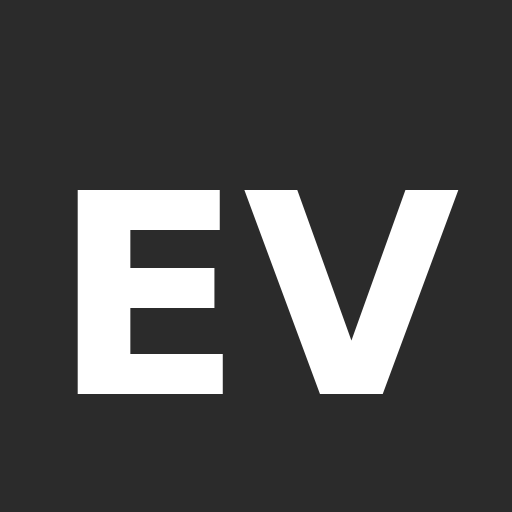
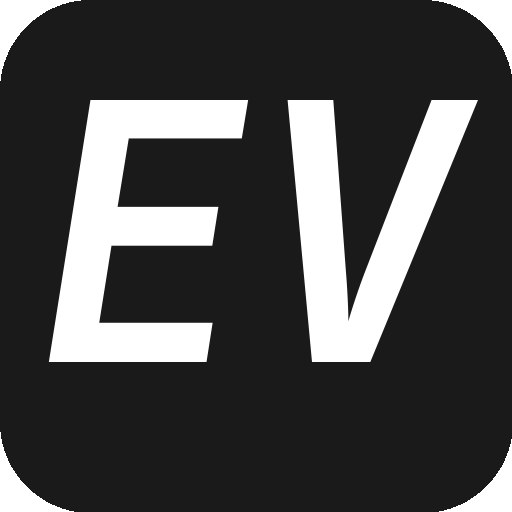
Site update: Sat 31 Jan 19:16:24 EET 2026

diff --git a/public/publication/vlachos-enabling-2026/index.html b/public/publication/vlachos-enabling-2026/index.html
@@ -286,8 +286,8 @@
 
 
 
-<link rel="icon" type="image/png" href="/media/icon_hu_99960cbade89db17.png" />
-<link rel="apple-touch-icon" type="image/png" href="/media/icon_hu_b9ce45dcf87a2611.png" />
+<link rel="icon" type="image/png" href="/media/icon_hu_bcf1dc3a34bdcf82.png" />
+<link rel="apple-touch-icon" type="image/png" href="/media/icon_hu_5c6510fda0db55d7.png" />
 
 <meta name="theme-color" content="#bbdefb" />
 
@@ -309,7 +309,7 @@
 
 
 <meta property="twitter:card" content="summary" />
-<meta property="twitter:image" content="http://localhost:1313/media/icon_hu_54fb21ec9e5f7394.png" />
+<meta property="twitter:image" content="http://localhost:1313/media/icon_hu_2beab1606e98fa9.png" />
 
 
 
@@ -319,7 +319,7 @@
 <meta property="og:site_name" content="Dr. Evangelos Vlachos" />
 <meta property="og:url" content="http://localhost:1313/publication/vlachos-enabling-2026/" />
 <meta property="og:title" content="Enabling Safe and Scalable UAV Swarms: ISAC Technology, GNSS Resilience, and Risk Modeling in U-space | Dr. Evangelos Vlachos" />
-<meta property="og:description" content="This letter investigates the coupled control problem in UA V networks utilizing high-frequency hybrid beamsteering. While phased arrays enable rapid electronic scanning, their finite Field of View (FoV) imposes a fundamental constraint that necessitates active mechanical steering of the airframe to maintain connectivity. We propose a decentralized Model Predic- tive Control (MPC) framework that jointly optimizes trajectory and heading to maximize network sum-capacity subject to safety constraints. Addressing the numerical instability caused by fast- fading channel nulls, we introduce a regularized surrogate cost function based on discrete spatial smoothing. We analytically prove that this approximation bounds the cost curvature, restor- ing the Lipschitz continuity of the gradient. Crucially, we derive a sufficient condition linking this Lipschitz constant to the con- troller gain, guaranteeing the contraction and linear convergence of the distributed best-response dynamics. Simulation results demonstrate that the proposed algorithm effectively navigates the trade-off between electronic beam tracking and kinematic safety, significantly systematically outperforming velocity-aligned baselines." /><meta property="og:image" content="http://localhost:1313/media/icon_hu_54fb21ec9e5f7394.png" /><meta property="og:locale" content="en-us" />
+<meta property="og:description" content="This letter investigates the coupled control problem in UA V networks utilizing high-frequency hybrid beamsteering. While phased arrays enable rapid electronic scanning, their finite Field of View (FoV) imposes a fundamental constraint that necessitates active mechanical steering of the airframe to maintain connectivity. We propose a decentralized Model Predic- tive Control (MPC) framework that jointly optimizes trajectory and heading to maximize network sum-capacity subject to safety constraints. Addressing the numerical instability caused by fast- fading channel nulls, we introduce a regularized surrogate cost function based on discrete spatial smoothing. We analytically prove that this approximation bounds the cost curvature, restor- ing the Lipschitz continuity of the gradient. Crucially, we derive a sufficient condition linking this Lipschitz constant to the con- troller gain, guaranteeing the contraction and linear convergence of the distributed best-response dynamics. Simulation results demonstrate that the proposed algorithm effectively navigates the trade-off between electronic beam tracking and kinematic safety, significantly systematically outperforming velocity-aligned baselines." /><meta property="og:image" content="http://localhost:1313/media/icon_hu_2beab1606e98fa9.png" /><meta property="og:locale" content="en-us" />
 
   
     <meta
@@ -369,7 +369,7 @@
     "name": "Dr. Evangelos Vlachos",
     "logo": {
       "@type": "ImageObject",
-      "url": "http://localhost:1313/media/icon_hu_d6fc2599f8aa940b.png"
+      "url": "http://localhost:1313/media/icon_hu_7f8914d350a21857.png"
     }
   },
   "description": "This letter investigates the coupled control problem in UA V networks utilizing high-frequency hybrid beamsteering. While phased arrays enable rapid electronic scanning, their finite Field of View (FoV) imposes a fundamental constraint that necessitates active mechanical steering of the airframe to maintain connectivity. We propose a decentralized Model Predic- tive Control (MPC) framework that jointly optimizes trajectory and heading to maximize network sum-capacity subject to safety constraints. Addressing the numerical instability caused by fast- fading channel nulls, we introduce a regularized surrogate cost function based on discrete spatial smoothing. We analytically prove that this approximation bounds the cost curvature, restor- ing the Lipschitz continuity of the gradient. Crucially, we derive a sufficient condition linking this Lipschitz constant to the con- troller gain, guaranteeing the contraction and linear convergence of the distributed best-response dynamics. Simulation results demonstrate that the proposed algorithm effectively navigates the trade-off between electronic beam tracking and kinematic safety, significantly systematically outperforming velocity-aligned baselines."

diff --git a/public/publication/vlachos-regularized-2026/index.html b/public/publication/vlachos-regularized-2026/index.html
@@ -286,8 +286,8 @@
 
 
 
-<link rel="icon" type="image/png" href="/media/icon_hu_99960cbade89db17.png" />
-<link rel="apple-touch-icon" type="image/png" href="/media/icon_hu_b9ce45dcf87a2611.png" />
+<link rel="icon" type="image/png" href="/media/icon_hu_bcf1dc3a34bdcf82.png" />
+<link rel="apple-touch-icon" type="image/png" href="/media/icon_hu_5c6510fda0db55d7.png" />
 
 <meta name="theme-color" content="#bbdefb" />
 
@@ -309,7 +309,7 @@
 
 
 <meta property="twitter:card" content="summary" />
-<meta property="twitter:image" content="http://localhost:1313/media/icon_hu_54fb21ec9e5f7394.png" />
+<meta property="twitter:image" content="http://localhost:1313/media/icon_hu_2beab1606e98fa9.png" />
 
 
 
@@ -319,7 +319,7 @@
 <meta property="og:site_name" content="Dr. Evangelos Vlachos" />
 <meta property="og:url" content="http://localhost:1313/publication/vlachos-regularized-2026/" />
 <meta property="og:title" content="Regularized Distributed MPC for UAV Networks: Stabilizing Coupled Motion and Hybrid Beam Alignment | Dr. Evangelos Vlachos" />
-<meta property="og:description" content="This letter investigates the coupled control problem in UAV networks utilizing high-frequency hybrid beamsteering. While phased arrays enable rapid electronic scanning, their finite Field of View (FoV) imposes a fundamental constraint that necessitates active mechanical steering of the airframe to maintain connectivity. We propose a decentralized Model Predictive Control (MPC) framework that jointly optimizes trajectory and heading to maximize network sum-capacity subject to safety constraints. Addressing the numerical instability caused by fast-fading channel nulls, we introduce a regularized surrogate cost function based on discrete spatial smoothing. Simulation results demonstrate that the proposed algorithm effectively navigates the trade-off between electronic beam tracking and kinematic safety." /><meta property="og:image" content="http://localhost:1313/media/icon_hu_54fb21ec9e5f7394.png" /><meta property="og:locale" content="en-us" />
+<meta property="og:description" content="This letter investigates the coupled control problem in UAV networks utilizing high-frequency hybrid beamsteering. While phased arrays enable rapid electronic scanning, their finite Field of View (FoV) imposes a fundamental constraint that necessitates active mechanical steering of the airframe to maintain connectivity. We propose a decentralized Model Predictive Control (MPC) framework that jointly optimizes trajectory and heading to maximize network sum-capacity subject to safety constraints. Addressing the numerical instability caused by fast-fading channel nulls, we introduce a regularized surrogate cost function based on discrete spatial smoothing. Simulation results demonstrate that the proposed algorithm effectively navigates the trade-off between electronic beam tracking and kinematic safety." /><meta property="og:image" content="http://localhost:1313/media/icon_hu_2beab1606e98fa9.png" /><meta property="og:locale" content="en-us" />
 
   
     <meta
@@ -369,7 +369,7 @@
     "name": "Dr. Evangelos Vlachos",
     "logo": {
       "@type": "ImageObject",
-      "url": "http://localhost:1313/media/icon_hu_d6fc2599f8aa940b.png"
+      "url": "http://localhost:1313/media/icon_hu_7f8914d350a21857.png"
     }
   },
   "description": "This letter investigates the coupled control problem in UAV networks utilizing high-frequency hybrid beamsteering. While phased arrays enable rapid electronic scanning, their finite Field of View (FoV) imposes a fundamental constraint that necessitates active mechanical steering of the airframe to maintain connectivity. We propose a decentralized Model Predictive Control (MPC) framework that jointly optimizes trajectory and heading to maximize network sum-capacity subject to safety constraints. Addressing the numerical instability caused by fast-fading channel nulls, we introduce a regularized surrogate cost function based on discrete spatial smoothing. Simulation results demonstrate that the proposed algorithm effectively navigates the trade-off between electronic beam tracking and kinematic safety."

diff --git a/public/publication/venetis-new-2026/index.html b/public/publication/venetis-new-2026/index.html
@@ -286,8 +286,8 @@
 
 
 
-<link rel="icon" type="image/png" href="/media/icon_hu_99960cbade89db17.png" />
-<link rel="apple-touch-icon" type="image/png" href="/media/icon_hu_b9ce45dcf87a2611.png" />
+<link rel="icon" type="image/png" href="/media/icon_hu_bcf1dc3a34bdcf82.png" />
+<link rel="apple-touch-icon" type="image/png" href="/media/icon_hu_5c6510fda0db55d7.png" />
 
 <meta name="theme-color" content="#bbdefb" />
 
@@ -309,7 +309,7 @@
 
 
 <meta property="twitter:card" content="summary" />
-<meta property="twitter:image" content="http://localhost:1313/media/icon_hu_54fb21ec9e5f7394.png" />
+<meta property="twitter:image" content="http://localhost:1313/media/icon_hu_2beab1606e98fa9.png" />
 
 
 
@@ -319,7 +319,7 @@
 <meta property="og:site_name" content="Dr. Evangelos Vlachos" />
 <meta property="og:url" content="http://localhost:1313/publication/venetis-new-2026/" />
 <meta property="og:title" content="A New Consensus-Driven Cooperative Localization Technique for UAV Swarms under Intermittent GPS | Dr. Evangelos Vlachos" />
-<meta property="og:description" content="" /><meta property="og:image" content="http://localhost:1313/media/icon_hu_54fb21ec9e5f7394.png" /><meta property="og:locale" content="en-us" />
+<meta property="og:description" content="" /><meta property="og:image" content="http://localhost:1313/media/icon_hu_2beab1606e98fa9.png" /><meta property="og:locale" content="en-us" />
 
   
     <meta
@@ -369,7 +369,7 @@
     "name": "Dr. Evangelos Vlachos",
     "logo": {
       "@type": "ImageObject",
-      "url": "http://localhost:1313/media/icon_hu_d6fc2599f8aa940b.png"
+      "url": "http://localhost:1313/media/icon_hu_7f8914d350a21857.png"
     }
   },
   "description": ""

diff --git a/public/publication/ntavanelos-regularized-2026/index.html b/public/publication/ntavanelos-regularized-2026/index.html
@@ -286,8 +286,8 @@
 
 
 
-<link rel="icon" type="image/png" href="/media/icon_hu_99960cbade89db17.png" />
-<link rel="apple-touch-icon" type="image/png" href="/media/icon_hu_b9ce45dcf87a2611.png" />
+<link rel="icon" type="image/png" href="/media/icon_hu_bcf1dc3a34bdcf82.png" />
+<link rel="apple-touch-icon" type="image/png" href="/media/icon_hu_5c6510fda0db55d7.png" />
 
 <meta name="theme-color" content="#bbdefb" />
 
@@ -309,7 +309,7 @@
 
 
 <meta property="twitter:card" content="summary" />
-<meta property="twitter:image" content="http://localhost:1313/media/icon_hu_54fb21ec9e5f7394.png" />
+<meta property="twitter:image" content="http://localhost:1313/media/icon_hu_2beab1606e98fa9.png" />
 
 
 
@@ -319,7 +319,7 @@
 <meta property="og:site_name" content="Dr. Evangelos Vlachos" />
 <meta property="og:url" content="http://localhost:1313/publication/ntavanelos-regularized-2026/" />
 <meta property="og:title" content="Regularized Deep Unfolding Conjugate Gradient Detector for MIMO-OTFS Channels | Dr. Evangelos Vlachos" />
-<meta property="og:description" content="" /><meta property="og:image" content="http://localhost:1313/media/icon_hu_54fb21ec9e5f7394.png" /><meta property="og:locale" content="en-us" />
+<meta property="og:description" content="" /><meta property="og:image" content="http://localhost:1313/media/icon_hu_2beab1606e98fa9.png" /><meta property="og:locale" content="en-us" />
 
   
     <meta
@@ -369,7 +369,7 @@
     "name": "Dr. Evangelos Vlachos",
     "logo": {
       "@type": "ImageObject",
-      "url": "http://localhost:1313/media/icon_hu_d6fc2599f8aa940b.png"
+      "url": "http://localhost:1313/media/icon_hu_7f8914d350a21857.png"
     }
   },
   "description": ""

diff --git a/public/el/404.html b/public/el/404.html
@@ -288,8 +288,8 @@
 
 
 
-<link rel="icon" type="image/png" href="/media/icon_hu_99960cbade89db17.png" />
-<link rel="apple-touch-icon" type="image/png" href="/media/icon_hu_b9ce45dcf87a2611.png" />
+<link rel="icon" type="image/png" href="/media/icon_hu_bcf1dc3a34bdcf82.png" />
+<link rel="apple-touch-icon" type="image/png" href="/media/icon_hu_5c6510fda0db55d7.png" />
 
 <meta name="theme-color" content="#bbdefb" />
 
@@ -311,7 +311,7 @@
 
 
 <meta property="twitter:card" content="summary" />
-<meta property="twitter:image" content="http://localhost:1313/media/icon_hu_54fb21ec9e5f7394.png" />
+<meta property="twitter:image" content="http://localhost:1313/media/icon_hu_2beab1606e98fa9.png" />
 
 
 
@@ -321,7 +321,7 @@
 <meta property="og:site_name" content="Δρ. Ευάγγελος Βλάχος" />
 <meta property="og:url" content="http://localhost:1313/el/404.html" />
 <meta property="og:title" content="404 Page not found | Δρ. Ευάγγελος Βλάχος" />
-<meta property="og:description" content="Εντεταλμένος Ερευνητής (Ερευνητής Γ&#39;)" /><meta property="og:image" content="http://localhost:1313/media/icon_hu_54fb21ec9e5f7394.png" /><meta property="og:locale" content="el-gr" />
+<meta property="og:description" content="Εντεταλμένος Ερευνητής (Ερευνητής Γ&#39;)" /><meta property="og:image" content="http://localhost:1313/media/icon_hu_2beab1606e98fa9.png" /><meta property="og:locale" content="el-gr" />
 
   
 

diff --git a/public/index.html b/public/index.html
@@ -302,8 +302,8 @@
 
 
 
-<link rel="icon" type="image/png" href="/media/icon_hu_99960cbade89db17.png" />
-<link rel="apple-touch-icon" type="image/png" href="/media/icon_hu_b9ce45dcf87a2611.png" />
+<link rel="icon" type="image/png" href="/media/icon_hu_bcf1dc3a34bdcf82.png" />
+<link rel="apple-touch-icon" type="image/png" href="/media/icon_hu_5c6510fda0db55d7.png" />
 
 <meta name="theme-color" content="#bbdefb" />
 
@@ -325,7 +325,7 @@
 
 
 <meta property="twitter:card" content="summary" />
-<meta property="twitter:image" content="http://localhost:1313/media/icon_hu_54fb21ec9e5f7394.png" />
+<meta property="twitter:image" content="http://localhost:1313/media/icon_hu_2beab1606e98fa9.png" />
 
 
 
@@ -339,7 +339,7 @@
 <meta property="og:site_name" content="Dr. Evangelos Vlachos" />
 <meta property="og:url" content="http://localhost:1313/" />
 <meta property="og:title" content="Evangelos Vlachos | Dr. Evangelos Vlachos" />
-<meta property="og:description" content="Tenured-track Researcher (Researcher C)" /><meta property="og:image" content="http://localhost:1313/media/icon_hu_54fb21ec9e5f7394.png" /><meta property="og:locale" content="en-us" />
+<meta property="og:description" content="Tenured-track Researcher (Researcher C)" /><meta property="og:image" content="http://localhost:1313/media/icon_hu_2beab1606e98fa9.png" /><meta property="og:locale" content="en-us" />
 
   
     <meta property="og:updated_time" content="2026-01-01T00:00:00&#43;00:00" />

diff --git a/public/404.html b/public/404.html
@@ -288,8 +288,8 @@
 
 
 
-<link rel="icon" type="image/png" href="/media/icon_hu_99960cbade89db17.png" />
-<link rel="apple-touch-icon" type="image/png" href="/media/icon_hu_b9ce45dcf87a2611.png" />
+<link rel="icon" type="image/png" href="/media/icon_hu_bcf1dc3a34bdcf82.png" />
+<link rel="apple-touch-icon" type="image/png" href="/media/icon_hu_5c6510fda0db55d7.png" />
 
 <meta name="theme-color" content="#bbdefb" />
 
@@ -311,7 +311,7 @@
 
 
 <meta property="twitter:card" content="summary" />
-<meta property="twitter:image" content="http://localhost:1313/media/icon_hu_54fb21ec9e5f7394.png" />
+<meta property="twitter:image" content="http://localhost:1313/media/icon_hu_2beab1606e98fa9.png" />
 
 
 
@@ -321,7 +321,7 @@
 <meta property="og:site_name" content="Dr. Evangelos Vlachos" />
 <meta property="og:url" content="http://localhost:1313/404.html" />
 <meta property="og:title" content="404 Page not found | Dr. Evangelos Vlachos" />
-<meta property="og:description" content="Tenured-track Researcher (Researcher C)" /><meta property="og:image" content="http://localhost:1313/media/icon_hu_54fb21ec9e5f7394.png" /><meta property="og:locale" content="en-us" />
+<meta property="og:description" content="Tenured-track Researcher (Researcher C)" /><meta property="og:image" content="http://localhost:1313/media/icon_hu_2beab1606e98fa9.png" /><meta property="og:locale" content="en-us" />
 
   
 

diff --git a/assets/media/generate_icon.py b/assets/media/generate_icon.py
@@ -1,0 +1,122 @@
+import os
+import urllib.request
+from PIL import Image, ImageDraw, ImageFont
+
+def find_system_font():
+    """
+    Intelligently searches for a Bold font on Linux/Mac/Windows.
+    Returns the path to the font file.
+    """
+    # 1. Common specific paths
+    common_paths = [
+        "/usr/share/fonts/truetype/dejavu/DejaVuSans-Bold.ttf", # Linux Standard
+        "/usr/share/fonts/TTF/DejaVuSans-Bold.ttf",             # Arch/Gentoo
+        "/usr/share/fonts/liberation/LiberationSans-Bold.ttf",  # Linux Alt
+        "/usr/share/fonts/truetype/freefont/FreeSansBold.ttf",  # Linux Alt
+        "C:\\Windows\\Fonts\\Arialbd.ttf",                      # Windows
+        "/Library/Fonts/Arial Bold.ttf",                        # Mac
+        "/System/Library/Fonts/HelveticaNeue-Bold.otf"          # Mac Alt
+    ]
+    
+    for path in common_paths:
+        if os.path.exists(path):
+            print(f"✅ Found system font: {path}")
+            return path
+
+    # 2. Generic Search (if specific paths fail)
+    # Recursively look for ANY file with "Bold" in the name in standard font dirs
+    search_dirs = ["/usr/share/fonts", "/usr/local/share/fonts", os.path.expanduser("~/.local/share/fonts")]
+    print("🔍 Searching system directories for any Bold font...")
+    
+    for d in search_dirs:
+        if os.path.exists(d):
+            for root, dirs, files in os.walk(d):
+                for file in files:
+                    if "Bold" in file and (file.endswith(".ttf") or file.endswith(".otf")):
+                        full_path = os.path.join(root, file)
+                        print(f"✅ Found generic system font: {full_path}")
+                        return full_path
+    
+    return None
+
+def download_fallback_font():
+    """Attempts to download a font if local search fails."""
+    font_filename = "temp_font_bold.ttf"
+    # Using the OFL path which is standard for Google Fonts
+    url = "https://raw.githubusercontent.com/google/fonts/main/ofl/opensans/OpenSans-Bold.ttf"
+    
+    print(f"⬇  System font not found. Downloading from: {url}")
+    try:
+        req = urllib.request.Request(url, headers={'User-Agent': 'Mozilla/5.0'})
+        with urllib.request.urlopen(req) as response, open(font_filename, 'wb') as out_file:
+            out_file.write(response.read())
+        print("✅ Download successful.")
+        return font_filename
+    except Exception as e:
+        print(f"❌ Download failed: {e}")
+        return None
+
+def create_icon():
+    # --- Settings ---
+    FILENAME = "icon.png"
+    SIZE = (512, 512)
+    BG_COLOR = "#1a1a1a"   # Matte Black
+    TEXT_COLOR = "#ffffff" # Pure White
+    TEXT = "EV"
+    CORNER_RADIUS = 90
+    FONT_SIZE = 360       # Large size
+
+    # --- Find a Font ---
+    font_path = find_system_font()
+    
+    if not font_path:
+        font_path = download_fallback_font()
+
+    # --- Create Image ---
+    img = Image.new('RGBA', SIZE, (0, 0, 0, 0))
+    d = ImageDraw.Draw(img)
+
+    # Draw Background
+    d.rounded_rectangle([(0, 0), SIZE], radius=CORNER_RADIUS, fill=BG_COLOR)
+
+    # Load Font
+    try:
+        if font_path:
+            font = ImageFont.truetype(font_path, FONT_SIZE)
+        else:
+            raise Exception("No font available")
+    except:
+        print("⚠  Warning: Using default pixel font (might look small).")
+        font = ImageFont.load_default()
+        # Reset text to center simply if we are using the tiny default font
+        w, h = d.textsize(TEXT, font=font)
+        d.text(((512-w)/2, (512-h)/2), TEXT, fill=TEXT_COLOR, font=font)
+        img.save(FILENAME)
+        return
+
+    # --- Smart Centering ---
+    try:
+        left, top, right, bottom = d.textbbox((0, 0), TEXT, font=font)
+        text_w = right - left
+        text_h = bottom - top
+        x = (SIZE[0] - text_w) / 2 - left
+        y = (SIZE[1] - text_h) / 2 - top - 25 # Visual adjustment
+    except AttributeError:
+        # Fallback for older Pillow versions
+        text_w, text_h = d.textsize(TEXT, font=font)
+        x = (SIZE[0] - text_w) / 2
+        y = (SIZE[1] - text_h) / 2 - 35
+
+    d.text((x, y), TEXT, fill=TEXT_COLOR, font=font)
+
+    # --- Save ---
+    img.save(FILENAME)
+    
+    # Clean up temp file if we downloaded one
+    if font_path == "temp_font_bold.ttf" and os.path.exists(font_path):
+        os.remove(font_path)
+
+    print(f"✅ Success! Created {FILENAME}")
+
+if __name__ == "__main__":
+    create_icon()
